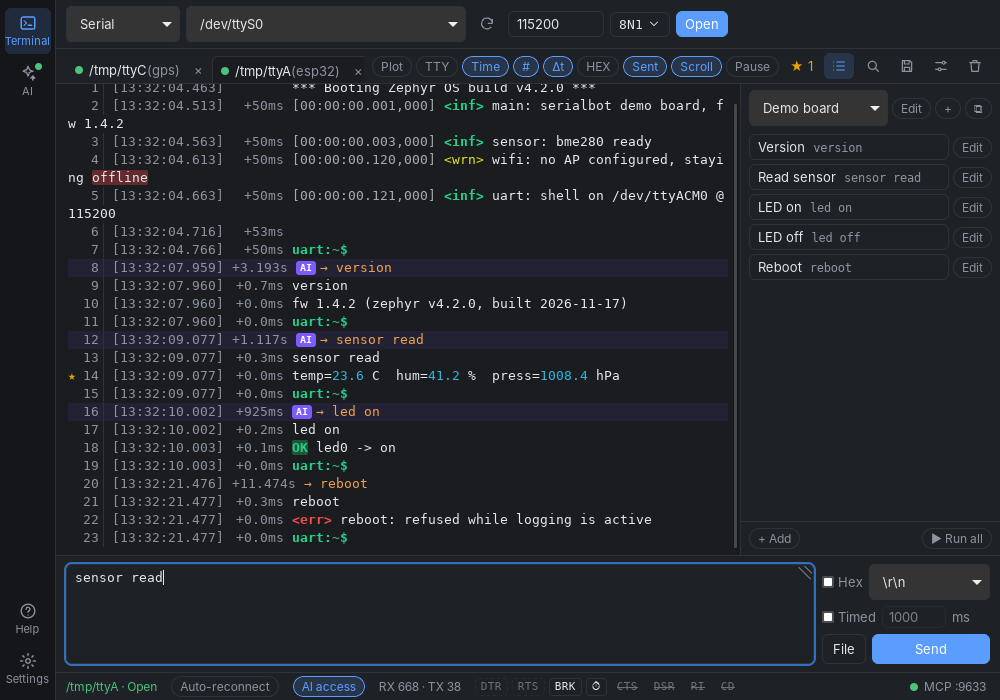
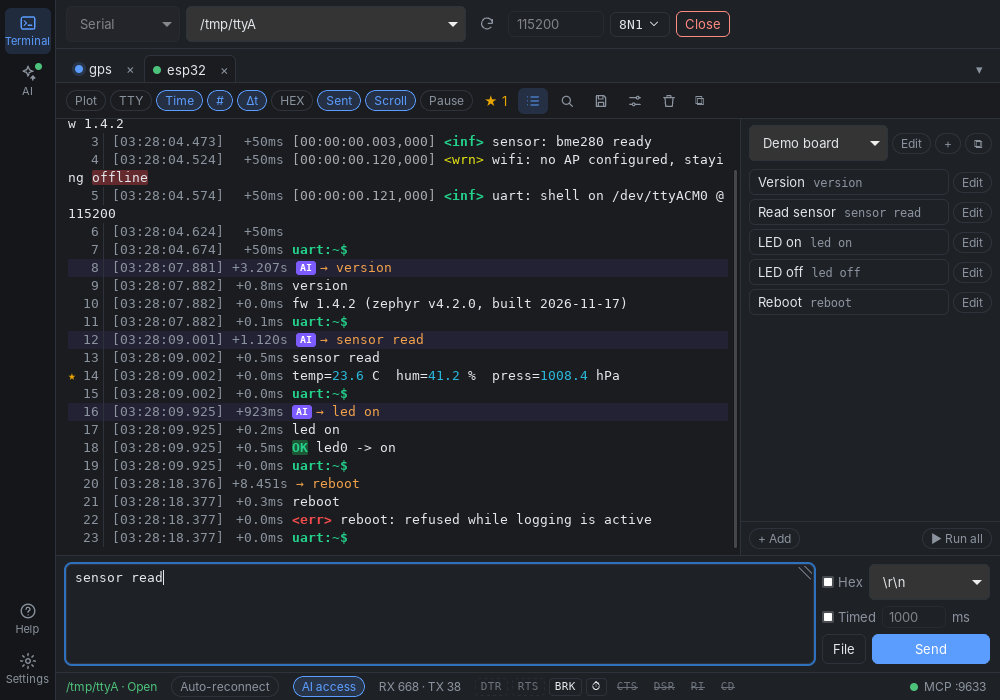
docs: screenshots for beta.2 and a multi-window shot (#73)

diff --git a/site/template.html b/site/template.html
@@ -79,9 +79,9 @@
   <h2>{{screens_title}}</h2>
   <div class="gallery">
     <figure><img src="{{root}}images/terminal-dark.png" width="1000" height="700" alt="{{shot_terminal}}" loading="lazy"><figcaption>{{shot_terminal}}</figcaption></figure>
+    <figure><img src="{{root}}images/windows.png" width="1496" height="926" alt="{{shot_windows}}" loading="lazy"><figcaption>{{shot_windows}}</figcaption></figure>
     <figure><img src="{{root}}images/plot-dark.png" width="1000" height="700" alt="{{shot_plot}}" loading="lazy"><figcaption>{{shot_plot}}</figcaption></figure>
     <figure><img src="{{root}}images/tty-dark.png" width="1000" height="700" alt="{{shot_tty}}" loading="lazy"><figcaption>{{shot_tty}}</figcaption></figure>
-    <figure><img src="{{root}}images/command-window.png" width="1460" height="756" alt="{{shot_commands}}" loading="lazy"><figcaption>{{shot_commands}}</figcaption></figure>
   </div>
 </section>
 

diff --git a/README.md b/README.md
@@ -82,7 +82,11 @@ You stay in charge. Every change to a port needs your approval, and every line t
 
 | Dark | Light |
 |:---:|:---:|
-| <img src="docs/images/terminal-dark.png" alt="Terminal in the dark theme: an agent's commands tagged AI next to a command sent from the list, line numbers, Δt, a bookmarked line and the command list"> | <img src="docs/images/terminal-light.png" alt="The same terminal in the light theme"> |
+| <img src="docs/images/terminal-dark.png" alt="Terminal in the dark theme: an agent's commands tagged AI next to a command sent from the list, line numbers, Δt, a bookmarked line and the command list; the gps tab's blue dot marks new data"> | <img src="docs/images/terminal-light.png" alt="The same terminal in the light theme"> |
+
+**🪟 Several ports side by side**: double-click a tab to move that port into a window of its own.
+
+<img src="docs/images/windows.png" alt="The main window showing a GPS port, and esp32 in a window of its own with its log, toolbar and send box">
 
 | 📈 Plot | 🖥 Terminal mode |
 |:---:|:---:|

diff --git a/README.zh-CN.md b/README.zh-CN.md
@@ -82,7 +82,11 @@ SerialBot 补上的就是这一环，让 Agent 直接面对设备：
 
 | 深色主题 | 浅色主题 |
 |:---:|:---:|
-| <img src="docs/images/terminal-dark.png" alt="深色主题的终端页：AI 发送的命令带 AI 标记，旁边是从命令列表发送的命令；行号、Δt、收藏的行和命令列表"> | <img src="docs/images/terminal-light.png" alt="浅色主题的终端页"> |
+| <img src="docs/images/terminal-dark.png" alt="深色主题的终端页：AI 发送的命令带 AI 标记，旁边是从命令列表发送的命令；行号、Δt、收藏的行和命令列表；gps 标签的蓝点表示有新数据"> | <img src="docs/images/terminal-light.png" alt="浅色主题的终端页"> |
+
+**🪟 多个串口并排查看**：双击标签，把该串口放到独立窗口里。
+
+<img src="docs/images/windows.png" alt="主窗口显示 GPS 端口，esp32 在独立窗口中，带日志、工具栏和发送框">
 
 | 📈 波形图 | 🖥 终端模式 |
 |:---:|:---:|
